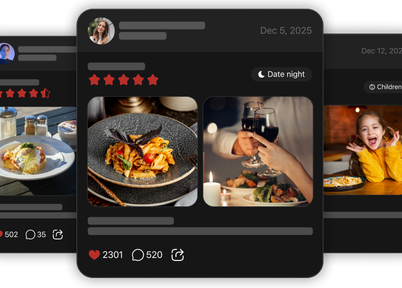
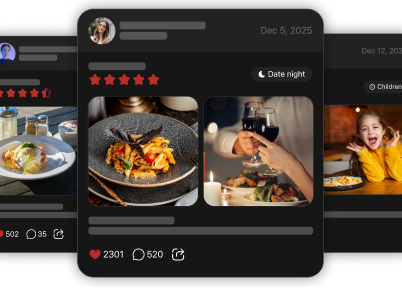
fix mobile review visuals and responsive collage

diff --git a/apps/mobile/src/features/comments/CommentsScreen.tsx b/apps/mobile/src/features/comments/CommentsScreen.tsx
@@ -9,6 +9,7 @@ import {
   FlatList,
   Image,
   KeyboardAvoidingView,
+  type LayoutChangeEvent,
   Modal,
   Platform,
   Pressable,
@@ -19,10 +20,16 @@ import {
   TextInput,
   View,
 } from 'react-native';
+import Svg, { Line } from 'react-native-svg';
 import { storage } from '../../infrastructure/firebase';
 import { captureException } from '../../infrastructure/observability';
 import { createIdempotencyKey } from '../../infrastructure/idempotency';
 import { formatDisplayDate } from '../../infrastructure/date';
+import CaretDownIcon from '../../../assets/comments/caret-down.svg';
+import ChatIcon from '../../../assets/comments/chat-round-outline.svg';
+import HeartIcon from '../../../assets/comments/heart-outline.svg';
+import ShareIcon from '../../../assets/comments/square-share-line-broken.svg';
+import SendIcon from '../../../assets/ai/send.svg';
 import { ErrorState, ListFooter, LoadingState, Screen } from '../../ui/components';
 import { theme } from '../../ui/theme';
 import { type ThemeColors, useAppTheme } from '../../ui/ThemeProvider';
@@ -78,7 +85,7 @@ function DishPhoto({ path, styles }: { path?: string; styles: ReturnType<typeof 
     });
     return () => { active = false; };
   }, [normalizedPath]);
-  if (state.uri) return <Image source={{ uri: state.uri }} style={styles.dishImage} />;
+  if (state.uri) return <Image resizeMode="contain" source={{ uri: state.uri }} style={styles.dishImage} />;
   return <View style={styles.dishImageFallback}>{state.failed ? <Text style={styles.dishImageFallbackText}>Photo unavailable</Text> : <ActivityIndicator color="#fff" />}</View>;
 }
 
@@ -96,7 +103,7 @@ function MainReview({ onReact, reacting, review }: { onReact: () => void; reacti
       <View style={styles.reviewVenueRow}><View style={styles.reviewVenueCopy}><Text style={styles.reviewVenue}>{review.venueName}</Text><Text style={styles.reviewStars}>{'★'.repeat(Math.max(1, Math.round(review.rating)))}<Text style={styles.reviewEmptyStars}>{'★'.repeat(Math.max(0, 5 - Math.round(review.rating)))}</Text></Text></View>{review.tags[0] ? <Text style={styles.reviewTag}>{tagLabels[review.tags[0]] ?? review.tags[0]}</Text> : null}</View>
       {review.dishReviews.length > 0 ? <View><FlatList contentContainerStyle={styles.dishes} data={review.dishReviews} horizontal keyExtractor={(dish) => dish.id} renderItem={({ item: dish }) => <Pressable onPress={() => setSelectedDish(dish)} style={styles.dishCard}><DishPhoto path={dish.photoPath} styles={styles} /><View style={styles.dishShade} /><Text numberOfLines={1} style={styles.dishTitle}>{dish.title}</Text><Text style={styles.dishRating}>★ {dish.rating.toFixed(1)}</Text></Pressable>} showsHorizontalScrollIndicator={false} /></View> : null}
       <Text style={styles.reviewText}>{review.text}</Text>
-      <View style={styles.reviewActions}><Pressable disabled={reacting} onPress={onReact}><Text style={[styles.reviewAction, review.reacted && styles.reviewActionActive]}>♥ {review.reactionCount}</Text></Pressable><Text style={styles.reviewAction}>◯ {review.commentCount}</Text><Pressable onPress={() => void Share.share({ message: `${review.authorDisplayName} on Tastes: ${review.text}\nhttps://tastes.app/reviews/${review.id}` })}><Text style={styles.reviewAction}>↗</Text></Pressable></View>
+      <View style={styles.reviewActions}><Pressable disabled={reacting} onPress={onReact} style={styles.reviewActionIconRow}><HeartIcon color={review.reacted ? colors.primary : colors.text} height={20} width={20} /><Text style={styles.reviewActionCount}>{review.reactionCount}</Text></Pressable><View style={styles.reviewActionIconRow}><ChatIcon color={colors.text} height={20} width={20} /><Text style={styles.reviewActionCount}>{review.commentCount}</Text></View><Pressable accessibilityLabel="Share review" onPress={() => void Share.share({ message: `${review.authorDisplayName} on Tastes: ${review.text}\nhttps://tastes.app/reviews/${review.id}` })} style={styles.reviewActionIconRow}><ShareIcon color={colors.text} height={20} width={20} /></Pressable></View>
     </View>
     <Modal animationType="slide" onRequestClose={() => setSelectedDish(null)} transparent visible={selectedDish !== null}>
       <View style={styles.dishModalScrim}>
@@ -110,7 +117,7 @@ function MainReview({ onReact, reacting, review }: { onReact: () => void; reacti
   </View>;
 }
 
-function CommentRow({ item, nested = false, onDelete, onReact, onReply, onReport }: { item: Comment; nested?: boolean; onDelete?: () => void; onReact: () => void; onReply: () => void; onReport: () => void }) {
+function CommentRow({ item, nested = false, onDelete, onReact, onReply, onReport, repliesToggle, onLayout }: { item: Comment; nested?: boolean; onDelete?: () => void; onReact: () => void; onReply: () => void; onReport: () => void; repliesToggle?: { count: number; hidden: boolean; onToggle: () => void }; onLayout?: (event: LayoutChangeEvent) => void }) {
   const { colors } = useAppTheme();
   const styles = useMemo(() => createStyles(colors), [colors]);
   return (
@@ -120,8 +127,8 @@ function CommentRow({ item, nested = false, onDelete, onReact, onReply, onReport
       { text: 'Report', style: 'destructive', onPress: onReport },
       ...(onDelete ? [{ text: 'Delete', style: 'destructive' as const, onPress: onDelete }] : []),
       { text: 'Cancel', style: 'cancel' },
-    ])} style={[styles.row, nested && styles.nestedRow]}>
-      <View style={styles.avatar}><Text style={styles.initial}>{item.authorDisplayName.slice(0, 1).toUpperCase()}</Text></View>
+    ])} onLayout={onLayout} style={[styles.row, nested && styles.nestedRow]}>
+      {item.authorPhotoUrl ? <Image source={{ uri: item.authorPhotoUrl }} style={styles.avatarImage} /> : <View style={styles.avatar}><Text style={styles.initial}>{item.authorDisplayName.slice(0, 1).toUpperCase()}</Text></View>}
       <View style={styles.copy}>
         <View style={styles.meta}>
           <Text style={styles.author}>{item.authorDisplayName}</Text>
@@ -129,9 +136,17 @@ function CommentRow({ item, nested = false, onDelete, onReact, onReply, onReport
         </View>
         <Text style={styles.text}>{item.text}</Text>
         <View style={styles.actions}>
-          <Pressable onPress={onReact}><Text style={[styles.action, item.reacted && styles.actionActive]}>♥ {item.reactionCount || ''}</Text></Pressable>
-          <Pressable onPress={onReply}><Text style={styles.action}>Reply</Text></Pressable>
-          <Pressable onPress={() => void Share.share({ message: `${item.authorDisplayName}: ${item.text}` })}><Text style={styles.action}>Share</Text></Pressable>
+          <Pressable onPress={onReact} style={styles.reactionAction}>
+            <HeartIcon color={item.reacted ? colors.primary : colors.text} height={20} width={20} />
+            {item.reactionCount ? <Text style={styles.reactionCount}>{item.reactionCount}</Text> : null}
+          </Pressable>
+          <Pressable onPress={onReply} style={styles.actionIconRow}><ChatIcon color={colors.textSecondary} height={20} width={20} /><Text style={styles.action}>Reply</Text></Pressable>
+          {repliesToggle ? (
+            <Pressable onPress={repliesToggle.onToggle} style={styles.actionIconRow}>
+              <Text style={styles.action}>{repliesToggle.hidden ? `Show replies (${repliesToggle.count})` : 'Hide replies'}</Text>
+              <CaretDownIcon color={colors.textSecondary} height={14} style={repliesToggle.hidden ? undefined : styles.caretFlipped} width={14} />
+            </Pressable>
+          ) : null}
         </View>
       </View>
     </Pressable>
@@ -152,6 +167,7 @@ export function PaginatedCommentsScreen({ reviewId, onBack }: { reviewId: string
   const [reportSent, setReportSent] = useState(false);
   const [replyTarget, setReplyTarget] = useState<Comment | null>(null);
   const [hiddenReplies, setHiddenReplies] = useState<Set<string>>(new Set());
+  const [replyOffsets, setReplyOffsets] = useState<Record<string, number>>({});
   const [reviewReacting, setReviewReacting] = useState(false);
   const query = useComments(reviewId);
   const mutation = useAddComment(reviewId);
@@ -231,9 +247,19 @@ export function PaginatedCommentsScreen({ reviewId, onBack }: { reviewId: string
               const replies = repliesByParent.get(item.id) ?? [];
               const hidden = hiddenReplies.has(item.id);
               const showError = (error: Error) => Alert.alert('Could not update comment', apiErrorMessage(error));
-              return <View><CommentRow item={item} onDelete={item.authorId === currentUserId ? () => deletion.mutate(item.id, { onError: showError }) : undefined} onReact={() => reaction.mutate({ commentId: item.id, idempotencyKey: createIdempotencyKey('comment-reaction') }, { onError: showError })} onReply={() => setReplyTarget(item)} onReport={() => setReportCommentId(item.id)} />
-                {replies.length > 0 ? <Pressable onPress={() => setHiddenReplies((current) => { const next = new Set(current); if (next.has(item.id)) next.delete(item.id); else next.add(item.id); return next; })} style={styles.repliesToggle}><Text style={styles.repliesToggleText}>{hidden ? `Show ${replies.length} replies` : 'Hide replies'}</Text></Pressable> : null}
-                {!hidden ? replies.map((reply) => <CommentRow key={reply.id} item={reply} nested onDelete={reply.authorId === currentUserId ? () => deletion.mutate(reply.id, { onError: showError }) : undefined} onReact={() => reaction.mutate({ commentId: reply.id, idempotencyKey: createIdempotencyKey('comment-reaction') }, { onError: showError })} onReply={() => setReplyTarget(item)} onReport={() => setReportCommentId(reply.id)} />) : null}
+              const toggleReplies = () => setHiddenReplies((current) => { const next = new Set(current); if (next.has(item.id)) next.delete(item.id); else next.add(item.id); return next; });
+              return <View style={styles.thread}>
+                <CommentRow item={item} onDelete={item.authorId === currentUserId ? () => deletion.mutate(item.id, { onError: showError }) : undefined} onReact={() => reaction.mutate({ commentId: item.id, idempotencyKey: createIdempotencyKey('comment-reaction') }, { onError: showError })} onReply={() => setReplyTarget(item)} onReport={() => setReportCommentId(item.id)} repliesToggle={replies.length > 0 ? { count: replies.length, hidden, onToggle: toggleReplies } : undefined} />
+                {!hidden ? replies.map((reply) => <CommentRow key={reply.id} item={reply} nested onDelete={reply.authorId === currentUserId ? () => deletion.mutate(reply.id, { onError: showError }) : undefined} onReact={() => reaction.mutate({ commentId: reply.id, idempotencyKey: createIdempotencyKey('comment-reaction') }, { onError: showError })} onReply={() => setReplyTarget(item)} onReport={() => setReportCommentId(reply.id)} onLayout={(event) => {
+                  const nextOffset = event.nativeEvent.layout.y;
+                  setReplyOffsets((current) => current[reply.id] === nextOffset ? current : { ...current, [reply.id]: nextOffset });
+                }} />) : null}
+                {!hidden && replies.length > 0 ? (
+                  <Svg height="100%" pointerEvents="none" style={styles.threadConnector} width="100%">
+                    {replies.map((reply) => replyOffsets[reply.id] == null ? null : <Line key={reply.id} stroke="rgba(0,0,0,0.2)" strokeDasharray="2,4" strokeLinecap="round" strokeWidth={2} x1={36} x2={63} y1={replyOffsets[reply.id] + 32} y2={replyOffsets[reply.id] + 32} />)}
+                    {Object.keys(replyOffsets).some((replyId) => replies.some((reply) => reply.id === replyId)) ? <Line stroke="rgba(0,0,0,0.2)" strokeDasharray="2,4" strokeLinecap="round" strokeWidth={2} x1={36} x2={36} y1={52} y2={Math.max(...replies.map((reply) => replyOffsets[reply.id] == null ? 52 : replyOffsets[reply.id] + 32))} /> : null}
+                  </Svg>
+                ) : null}
               </View>;
             }}
           />
@@ -249,12 +275,12 @@ export function PaginatedCommentsScreen({ reviewId, onBack }: { reviewId: string
             }}
             onSubmitEditing={() => void submit()}
             placeholder={replyTarget ? `Reply to ${replyTarget.authorDisplayName}` : 'Add comment'}
-            placeholderTextColor={colors.textMuted}
+            placeholderTextColor={colors.placeholder}
             style={styles.input}
             value={text}
           />
-          <Pressable disabled={!text.trim() || mutation.isPending} onPress={() => void submit()} style={styles.send}>
-            <Text style={styles.sendText}>↑</Text>
+          <Pressable accessibilityLabel="Send comment" disabled={!text.trim() || mutation.isPending} onPress={() => void submit()} style={styles.send}>
+            <SendIcon height={20} width={20} />
           </Pressable>
         </View>
       </KeyboardAvoidingView>
@@ -271,7 +297,7 @@ const createStyles = (colors: ThemeColors) => StyleSheet.create({
   backText: { color: colors.text, fontSize: 38, lineHeight: 39, fontWeight: '300' },
   title: { color: colors.text, fontSize: 17, fontWeight: '700' },
   list: { flex: 1 },
-  content: { paddingBottom: 16 },
+  content: { paddingBottom: 16, backgroundColor: colors.canvas },
   empty: { color: colors.textMuted, textAlign: 'center', padding: 32 },
   mainReview: { marginBottom: 16, backgroundColor: colors.background },
   reviewAuthorRow: { minHeight: 72, paddingHorizontal: 16, paddingVertical: 12, flexDirection: 'row', alignItems: 'center', backgroundColor: colors.surfaceRaised },
@@ -307,31 +333,38 @@ const createStyles = (colors: ThemeColors) => StyleSheet.create({
   dishModalRating: { alignSelf: 'flex-start', marginTop: 16, paddingHorizontal: 12, paddingVertical: 7, borderRadius: 18, overflow: 'hidden', color: '#FFFFFF', backgroundColor: colors.primary, fontSize: 15, fontWeight: '700' },
   dishModalName: { marginTop: 10, color: colors.text, fontSize: 17, fontWeight: '700' },
   reviewText: { paddingHorizontal: 16, color: colors.text, fontSize: 14, lineHeight: 19 },
-  reviewActions: { paddingHorizontal: 16, paddingBottom: 4, flexDirection: 'row', gap: 18 },
+  reviewActions: { paddingHorizontal: 16, paddingBottom: 4, flexDirection: 'row', alignItems: 'center', gap: 18 },
   reviewAction: { color: colors.textMuted, fontSize: 14, fontWeight: '600' },
-  reviewActionActive: { color: colors.primary },
+  reviewActionIconRow: { minHeight: 20, flexDirection: 'row', alignItems: 'center', gap: 2 },
+  reviewActionCount: { color: colors.text, fontSize: 14 },
   commentsHeading: { paddingHorizontal: 16, paddingBottom: 10, color: colors.text, fontSize: 18, fontWeight: '700' },
-  row: { padding: 16, flexDirection: 'row', gap: 10, borderBottomWidth: StyleSheet.hairlineWidth, borderBottomColor: colors.border, backgroundColor: colors.surface },
-  nestedRow: { marginLeft: 46, paddingTop: 10, paddingBottom: 10 },
-  avatar: { width: 36, height: 36, borderRadius: 18, alignItems: 'center', justifyContent: 'center', backgroundColor: '#45312E' },
+  thread: { position: 'relative' },
+  // Figma's dotted tree connector is positioned over the rows so the nested
+  // row backgrounds cannot hide the vertical segment or its horizontal arms.
+  threadConnector: { position: 'absolute', top: 0, right: 0, bottom: 0, left: 0 },
+  row: { paddingHorizontal: 16, paddingVertical: 12, flexDirection: 'row', gap: 7, borderBottomWidth: StyleSheet.hairlineWidth, borderBottomColor: colors.border, backgroundColor: colors.canvas },
+  nestedRow: { paddingLeft: 63 },
+  avatar: { width: 40, height: 40, borderRadius: 20, alignItems: 'center', justifyContent: 'center', backgroundColor: '#45312E' },
+  avatarImage: { width: 40, height: 40, borderRadius: 20 },
   initial: { color: colors.onPrimary, fontWeight: '700' },
   copy: { flex: 1, gap: 6 },
   meta: { flexDirection: 'row', justifyContent: 'space-between' },
   author: { color: colors.text, fontWeight: '700' },
   date: { color: colors.textMuted, fontSize: 12 },
   text: { color: colors.text, opacity: 0.82, lineHeight: 19 },
-  actions: { flexDirection: 'row', gap: 18, marginTop: 3 },
-  action: { color: colors.textMuted, fontSize: 12, fontWeight: '600' },
+  actions: { flexDirection: 'row', alignItems: 'center', gap: 12, marginTop: 3 },
+  action: { color: colors.textSecondary, fontSize: 13 },
   actionActive: { color: colors.primary },
-  repliesToggle: { marginLeft: 62, paddingVertical: 8 },
-  repliesToggleText: { color: colors.textMuted, fontSize: 12, fontWeight: '600' },
-  composer: { minHeight: 70, paddingHorizontal: 12, paddingTop: 12, paddingBottom: 12, flexDirection: 'row', alignItems: 'center', gap: 8, backgroundColor: colors.background },
+  reactionAction: { minHeight: 20, flexDirection: 'row', alignItems: 'center', gap: 2 },
+  reactionCount: { color: colors.text, fontSize: 14 },
+  actionIconRow: { minHeight: 20, flexDirection: 'row', alignItems: 'center', gap: 2 },
+  caretFlipped: { transform: [{ rotate: '180deg' }] },
+  composer: { height: 89, paddingHorizontal: 16, paddingTop: 16, paddingBottom: 33, flexDirection: 'row', alignItems: 'center', gap: 12, backgroundColor: colors.surface },
   replyBanner: { position: 'absolute', left: 16, right: 16, top: -30, height: 30, paddingHorizontal: 12, flexDirection: 'row', alignItems: 'center', justifyContent: 'space-between', backgroundColor: colors.surfaceRaised, borderTopLeftRadius: 10, borderTopRightRadius: 10 },
   replyBannerText: { flex: 1, color: colors.textMuted, fontSize: 12 },
   replyClose: { color: colors.text, fontSize: 20 },
-  input: { flex: 1, height: 44, paddingHorizontal: 16, borderRadius: theme.radius.pill, color: colors.text, backgroundColor: colors.surfaceRaised },
-  send: { width: 42, height: 42, borderRadius: 21, alignItems: 'center', justifyContent: 'center', backgroundColor: colors.primary },
-  sendText: { color: colors.onPrimary, fontSize: 23, fontWeight: '700' },
+  input: { flex: 1, height: 40, paddingHorizontal: 14, borderRadius: theme.radius.pill, color: colors.text, backgroundColor: colors.surfaceRaised },
+  send: { width: 40, height: 40, borderWidth: 1, borderColor: colors.primary, borderRadius: 20, alignItems: 'center', justifyContent: 'center', backgroundColor: colors.primary },
   reportScrim: { flex: 1, justifyContent: 'flex-end', backgroundColor: 'rgba(0,0,0,0.64)' },
   reportSheet: { padding: 18, paddingBottom: 28, borderTopLeftRadius: 24, borderTopRightRadius: 24, backgroundColor: colors.surface },
   reportTitle: { marginBottom: 8, color: colors.text, fontSize: 20, fontWeight: '700' },

diff --git a/apps/mobile/src/features/home/HomeFeedScreen.tsx b/apps/mobile/src/features/home/HomeFeedScreen.tsx
@@ -18,6 +18,9 @@ import {
 import { storage } from '../../infrastructure/firebase';
 import { captureException } from '../../infrastructure/observability';
 import { formatDisplayDate } from '../../infrastructure/date';
+import ChatIcon from '../../../assets/comments/chat-round-outline.svg';
+import HeartIcon from '../../../assets/comments/heart-outline.svg';
+import ShareIcon from '../../../assets/comments/square-share-line-broken.svg';
 import { ErrorState, ListFooter, Screen } from '../../ui/components';
 import { NotificationsGlyph, StatsGlyph, TastesLogo } from '../../ui/FigmaIcons';
 import { theme } from '../../ui/theme';
@@ -94,7 +97,10 @@ function DishPhoto({ photoPath }: { photoPath?: string }) {
     };
   }, [normalizedPath]);
 
-  return uri ? <Image source={{ uri }} style={stylesStatic.dishPhoto} /> : <View style={stylesStatic.dishPhotoPlaceholder} />;
+  // Keep the full dish visible inside the fixed Figma tile. The default
+  // `cover` mode trims the photo edges when its aspect ratio differs from the
+  // tile, which is the slight side-cropping visible in the review carousel.
+  return uri ? <Image resizeMode="contain" source={{ uri }} style={stylesStatic.dishPhoto} /> : <View style={stylesStatic.dishPhotoPlaceholder} />;
 }
 
 function isOfflineError(error: Error) {
@@ -156,20 +162,16 @@ function FeedCard({
         </View>
       ) : null}
       <View style={styles.metrics}>
-        <Pressable disabled={reactionDisabled} onPress={onReaction}>
-          <Text style={[
-            styles.metric,
-            isReactionActive ? styles.metricActive : undefined,
-            reactionDisabled ? styles.metricDisabled : undefined,
-          ]}>
-            ♥ {item.reactionCount}
-          </Text>
+        <Pressable disabled={reactionDisabled} onPress={onReaction} style={styles.metricIconRow}>
+          <HeartIcon color={isReactionActive ? colors.primary : colors.text} height={20} width={20} />
+          <Text style={[styles.metric, isReactionActive ? styles.metricActive : undefined, reactionDisabled ? styles.metricDisabled : undefined]}>{item.reactionCount}</Text>
         </Pressable>
-        <Pressable onPress={onComments}>
-          <Text style={styles.metric}>◯ {item.commentCount}</Text>
+        <Pressable onPress={onComments} style={styles.metricIconRow}>
+          <ChatIcon color={colors.text} height={20} width={20} />
+          <Text style={styles.metric}>{item.commentCount}</Text>
         </Pressable>
         <Pressable onPress={onShare}>
-          <Text style={styles.metric}>↗</Text>
+          <ShareIcon color={colors.text} height={20} width={20} />
         </Pressable>
       </View>
     </Pressable>
@@ -552,8 +554,9 @@ const createStyles = (colors: ThemeColors, isDark: boolean) => StyleSheet.create
   dishRating: { color: '#D33B35', fontSize: 12, fontWeight: '700' },
   tags: { flexDirection: 'row', flexWrap: 'wrap', gap: 6 },
   tag: { paddingHorizontal: 10, paddingVertical: 6, borderRadius: theme.radius.pill, backgroundColor: colors.surfaceRaised, color: colors.textSecondary, fontSize: 12 },
-  metrics: { paddingTop: 10, flexDirection: 'row', gap: 22, borderTopWidth: StyleSheet.hairlineWidth, borderTopColor: colors.border },
+  metrics: { paddingTop: 10, flexDirection: 'row', alignItems: 'center', gap: 22, borderTopWidth: StyleSheet.hairlineWidth, borderTopColor: colors.border },
   metric: { color: colors.textMuted, fontSize: 13 },
+  metricIconRow: { flexDirection: 'row', alignItems: 'center', gap: 5 },
   metricActive: { color: colors.text, fontWeight: '700' },
   metricDisabled: { opacity: 0.5 },
 });

diff --git a/apps/mobile/src/features/onboarding/PostSignupOnboardingFlow.tsx b/apps/mobile/src/features/onboarding/PostSignupOnboardingFlow.tsx
@@ -200,6 +200,9 @@ export function PostSignupOnboardingFlow({
   const { colors, preference, resolvedTheme, setPreference } = useAppTheme();
   const { height: viewportHeight, width: viewportWidth } = useWindowDimensions();
   const styles = useOnboardingStyles();
+  const collageWidth = Math.max(0, Math.min(402, viewportWidth));
+  const collageScale = collageWidth / 402;
+  const collageHeight = 288 * collageScale;
   const usesCompactDishLayout = viewportHeight < 840 || viewportWidth < 360;
   const dishGap = usesCompactDishLayout ? 5 : 8;
   const dishPanelHeight = viewportHeight - (usesCompactDishLayout ? 205 : 212) - (usesCompactDishLayout ? 105 : 110);
@@ -663,7 +666,7 @@ export function PostSignupOnboardingFlow({
 
   return <LinearGradient colors={resolvedTheme === 'dark' ? ['#560E0B', '#080808'] : ['#F7E8E4', colors.canvas]} style={styles.ready}>
     <View style={styles.readyContent}>
-      <Image source={readyCollage} resizeMode="contain" style={styles.reviewCollage} />
+      <Image source={readyCollage} resizeMode="contain" style={{ height: collageHeight, width: collageWidth }} />
       <View style={styles.readyCopy}><Text style={styles.readyTitle}>You’re ready!</Text><Text style={styles.readySubtitle}>Write your first 3 reviews to unlock personalized recommendations</Text></View>
       <PrimaryButton contentGap={8} icon={startRating} iconSize={24} label="Start rating" loading={busy} onPress={finishOnboarding} style={styles.readyButton} />
     </View>
@@ -817,7 +820,6 @@ const createStyles = (colors: ThemeColors, isDark: boolean) => StyleSheet.create
   actionChevron: { width: 8, height: 16, opacity: 0.7 },
   ready: { flex: 1 },
   readyContent: { position: 'absolute', top: 170, left: 0, right: 0, alignItems: 'center' },
-  reviewCollage: { width: '100%', maxWidth: 402, aspectRatio: 402 / 288 },
   readyCopy: { width: '100%', maxWidth: 370, height: 72, alignItems: 'center', justifyContent: 'center', gap: 7, marginTop: 24, paddingHorizontal: 16 },
   readyTitle: { width: '100%', color: '#FFFFFF', fontSize: 24, lineHeight: 29, fontWeight: '700', letterSpacing: 0.6, textAlign: 'center' },
   readySubtitle: { width: '100%', color: '#AAB2C5', fontSize: 15, lineHeight: 18, letterSpacing: -0.41, textAlign: 'center' },

diff --git a/services/backend/functions/src/modules/reviews/functions.ts b/services/backend/functions/src/modules/reviews/functions.ts
@@ -143,19 +143,27 @@ export const getComments = onCall(callableOptions, async (request) => {
     .get()));
   const replyDocuments = replySnapshots.flatMap((replySnapshot) => replySnapshot.docs);
   const pageDocuments = [...rootDocuments, ...replyDocuments];
-  const [reactionDocuments, author, reviewReaction] = await Promise.all([
+  const commentAuthorIds = [...new Set(pageDocuments.map((document) => String(document.get('authorId'))))];
+  const [reactionDocuments, author, reviewReaction, commentAuthorDocs] = await Promise.all([
     pageDocuments.length > 0
       ? db.getAll(...pageDocuments.map((document) => document.ref.collection('reactions').doc(uid)))
       : Promise.resolve([]),
     db.collection('users').doc(String(review.get('authorId'))).get(),
     review.ref.collection('reactions').doc(uid).get(),
+    commentAuthorIds.length > 0
+      ? db.getAll(...commentAuthorIds.map((id) => db.collection('users').doc(id)))
+      : Promise.resolve([]),
   ]);
   const reactedIds = new Set(reactionDocuments.filter((document) => document.exists).map((document) => document.ref.parent.parent?.id));
+  const commentAuthorPhotoById = new Map(
+    commentAuthorDocs.map((document) => [document.id, document.exists && document.get('photoUrl') ? String(document.get('photoUrl')) : null]),
+  );
   const toComment = (document: QueryDocumentSnapshot) => ({
     id: document.id,
     reviewId: input.reviewId,
     authorId: String(document.get('authorId')),
     authorDisplayName: String(document.get('authorDisplayName')),
+    authorPhotoUrl: commentAuthorPhotoById.get(String(document.get('authorId'))) ?? null,
     parentCommentId: document.get('parentCommentId') ? String(document.get('parentCommentId')) : null,
     reactionCount: Number(document.get('reactionCount') ?? 0),
     replyCount: Number(document.get('replyCount') ?? 0),

diff --git a/packages/contracts/src/index.ts b/packages/contracts/src/index.ts
@@ -540,6 +540,7 @@ export interface Comment {
   reviewId: string;
   authorId: string;
   authorDisplayName: string;
+  authorPhotoUrl: string | null;
   parentCommentId: string | null;
   reactionCount: number;
   replyCount: number;
